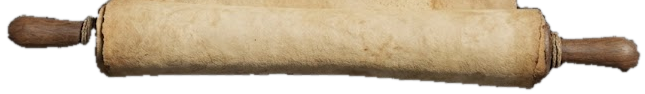
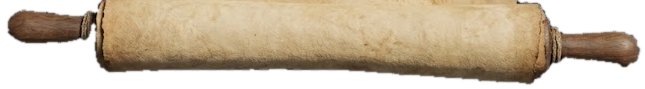
Make the contract scroll scrollable with turning rolls
Parchment moves with the text, rolls turn as you scroll, and the
rolls' cast shadow follows the paper's edges.

Claude-Session: https://claude.ai/code/session_01LxXieUcEQtyty1wiCsGs3c

diff --git a/index.html b/index.html
@@ -90,17 +90,58 @@
       color: var(--ink);
       margin: 2rem 0 .75rem;
     }
-    .scroll { max-width: 645px; margin: 1.5rem auto; }
-    .scroll img { display: block; width: 100%; height: auto; }
+    .scroll { max-width: 645px; margin: 1.5rem auto 0; --roll: 0px; container-type: inline-size; }
+    .roll { position: relative; }
+    .roll img { display: block; width: 100%; height: auto; }
+    /* A moving copy of the roll's texture, masked to the roll body, shaded like a cylinder */
+    .roll-turn {
+      position: absolute;
+      background-repeat: no-repeat, repeat-y;
+      background-size: 100% 100%, 100% auto;
+      background-position: 0 0, 0 var(--roll);
+      background-blend-mode: multiply;
+      -webkit-mask-size: 100% 100%;
+      mask-size: 100% 100%;
+    }
+    .roll-turn-top {
+      left: 15.5%; top: 21.52%; width: 61.4%; height: 73.42%;
+      background-image: url("images/roll-top-shade.png"), url("images/roll-top-tex.png");
+      -webkit-mask-image: url("images/roll-top-mask.png");
+      mask-image: url("images/roll-top-mask.png");
+    }
+    .roll-turn-bottom {
+      left: 17.36%; top: 0%; width: 65.74%; height: 69.66%;
+      background-image: url("images/roll-bot-shade.png"), url("images/roll-bot-tex.png");
+      -webkit-mask-image: url("images/roll-bot-mask.png");
+      mask-image: url("images/roll-bot-mask.png");
+    }
+    .scroll-window { position: relative; margin: -1px 0; }
     .scroll-body {
-      margin: -1px 0;
-      padding: .25rem 27% .75rem 22%;
+      height: clamp(260px, 55vh, 460px);
+      overflow-y: auto;
+      scrollbar-width: none;
+      padding: 10cqw 27% 4cqw 22%;
       background: url("images/scroll-mid.png") top center / 100% auto repeat-y;
+      background-attachment: local; /* parchment scrolls with the text */
       color: #3a2616;
       font-size: 1.1rem;
       line-height: 1.55;
+      outline: none;
     }
+    .scroll-body::-webkit-scrollbar { display: none; }
     .scroll-body p:last-child { margin-bottom: 0; }
+    /* Shadow cast by the rolls; masked to the parchment, so it moves with the paper's edges */
+    .scroll-shade {
+      position: absolute;
+      inset: 0;
+      pointer-events: none;
+      background:
+        linear-gradient(to bottom, rgba(30,18,8,.72) 0, rgba(30,18,8,.68) 2.5cqw, rgba(30,18,8,.62) 3.4cqw,
+          rgba(30,18,8,.42) 4.3cqw, rgba(30,18,8,.24) 5.3cqw, rgba(30,18,8,.12) 6.2cqw, rgba(30,18,8,.05) 7.1cqw, rgba(30,18,8,0) 9cqw),
+        linear-gradient(to top, rgba(30,18,8,.3) 0, rgba(30,18,8,.12) 1.5cqw, rgba(30,18,8,0) 3.5cqw);
+      -webkit-mask: url("images/scroll-mid.png") 0 var(--roll) / 100% auto repeat-y;
+      mask: url("images/scroll-mid.png") 0 var(--roll) / 100% auto repeat-y;
+    }
     .scroll-title {
       font-family: "Cinzel", serif;
       font-weight: 700;
@@ -108,6 +149,13 @@
       text-align: center;
       letter-spacing: .08em;
       color: var(--accent);
+    }
+    .scroll-hint {
+      text-align: center;
+      font-style: italic;
+      font-size: .95rem;
+      color: var(--muted);
+      margin: .5rem 0 0;
     }
     @media (max-width: 520px) {
       .scroll-body { font-size: .9rem; line-height: 1.45; }
@@ -245,17 +293,27 @@
       </p>
 
       <h3>2. The Contract</h3>
-      <!-- The scroll grows with its text: top roll + repeating parchment + bottom roll -->
+      <!-- Scrollable scroll: parchment moves with the text and the rolls turn as you scroll -->
       <div class="scroll">
-        <img src="images/scroll-top.png" alt="" aria-hidden="true">
-        <div class="scroll-body">
-          <p class="scroll-title">Contract</p>
-          <p>
-            EDIT: The contract wording goes here. The scroll stretches to fit however much text you add.
-          </p>
+        <div class="roll">
+          <img src="images/scroll-top.png" alt="" aria-hidden="true">
+          <div class="roll-turn roll-turn-top" aria-hidden="true"></div>
         </div>
-        <img src="images/scroll-bottom.png" alt="" aria-hidden="true">
+        <div class="scroll-window">
+          <div class="scroll-body" tabindex="0" aria-label="Contract (scrollable)">
+            <p class="scroll-title">Contract</p>
+            <p>
+              EDIT: The contract wording goes here.
+            </p>
+          </div>
+          <div class="scroll-shade" aria-hidden="true"></div>
+        </div>
+        <div class="roll">
+          <img src="images/scroll-bottom.png" alt="" aria-hidden="true">
+          <div class="roll-turn roll-turn-bottom" aria-hidden="true"></div>
+        </div>
       </div>
+      <p class="scroll-hint">Scroll the parchment to read &#8597;</p>
     </section>
 
     <!-- ============ DM SECRETS (encrypted; unlocked in the browser) ============ -->
@@ -364,6 +422,22 @@
       body.innerHTML = html;
       body.hidden = false;
     });
+
+    // Turn the rolls as the contract scrolls
+    (() => {
+      const body = document.querySelector(".scroll-body");
+      const scroll = document.querySelector(".scroll");
+      if (!body || !scroll) return;
+      let queued = false;
+      body.addEventListener("scroll", () => {
+        if (queued) return;
+        queued = true;
+        requestAnimationFrame(() => {
+          scroll.style.setProperty("--roll", -body.scrollTop + "px");
+          queued = false;
+        });
+      }, { passive: true });
+    })();
   </script>
 
 </body>
